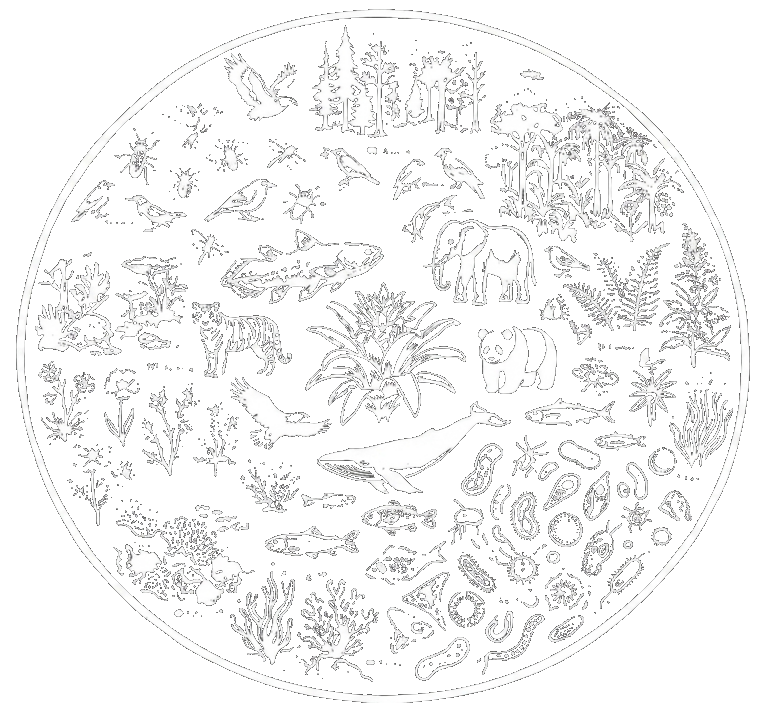
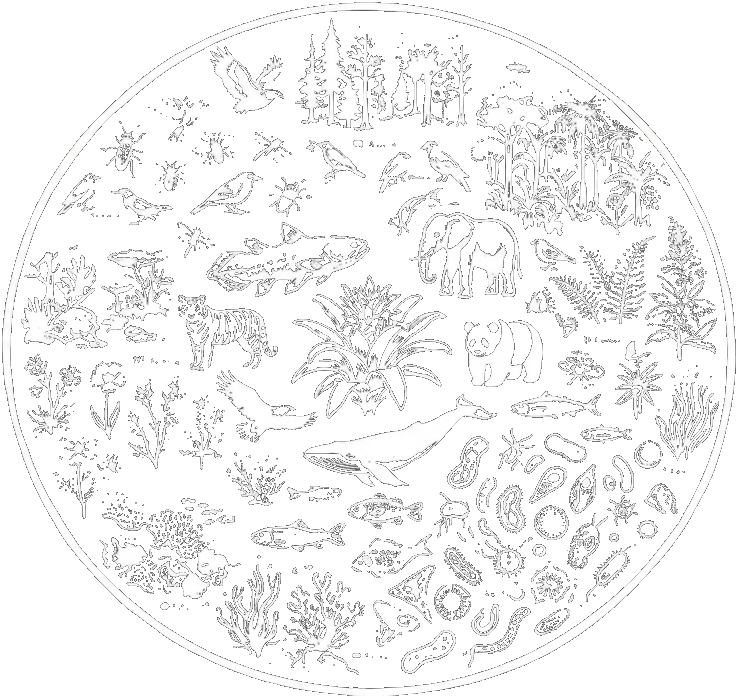
Feature strip reformated.

diff --git a/docs/_sass/_theme.scss b/docs/_sass/_theme.scss
@@ -461,7 +461,7 @@ h3.half-underline {
 
 .feature-strip-image {
   width: 100%;
-  max-width: 320px;
+  max-width: 400px;
   aspect-ratio: 1 / 1;
   object-fit: contain;
   object-position: center center;
@@ -494,9 +494,10 @@ h3.half-underline {
 .feature-strip-body {
   margin: 0 auto;
   max-width: 48ch;
-  font-size: unquote("clamp(0.9rem, 1.2vw, 1.4rem)");
+  font-size: unquote("clamp(1.0rem, 1.2vw, 1.4rem)");
   line-height: 1.55;
   font-weight: 100;
+  opacity: 0.9;
 }
 
 .feature-strip-secondary {
@@ -518,7 +519,7 @@ h3.half-underline {
   }
 
   .feature-strip-image {
-    max-width: 200px;
+    max-width: 280px;
   }
 
   .feature-strip-body {
